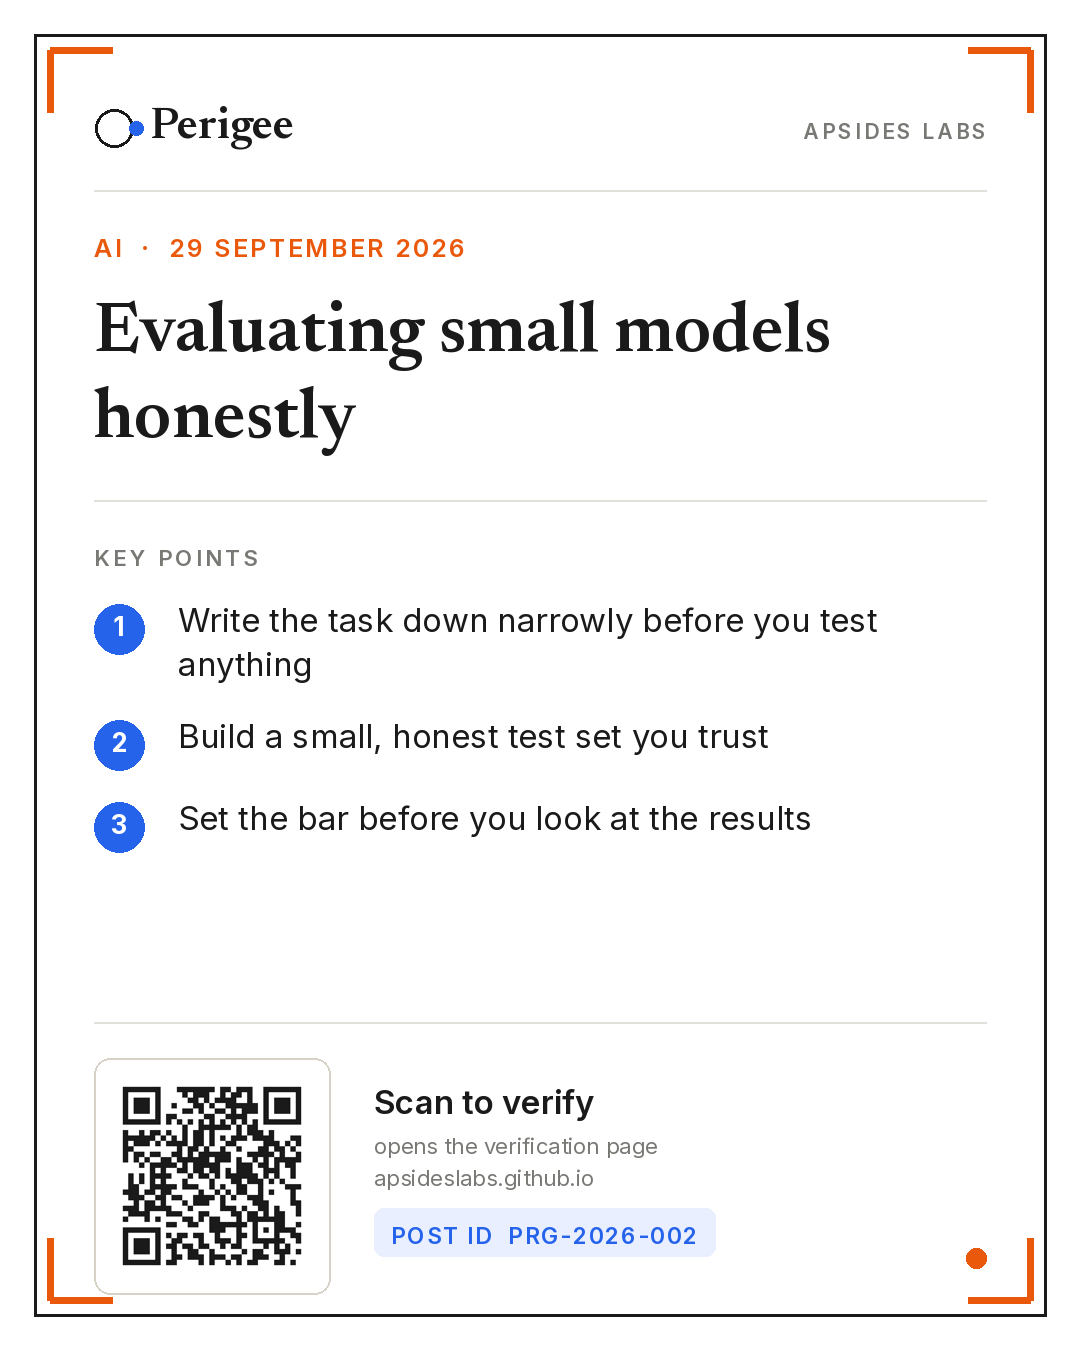
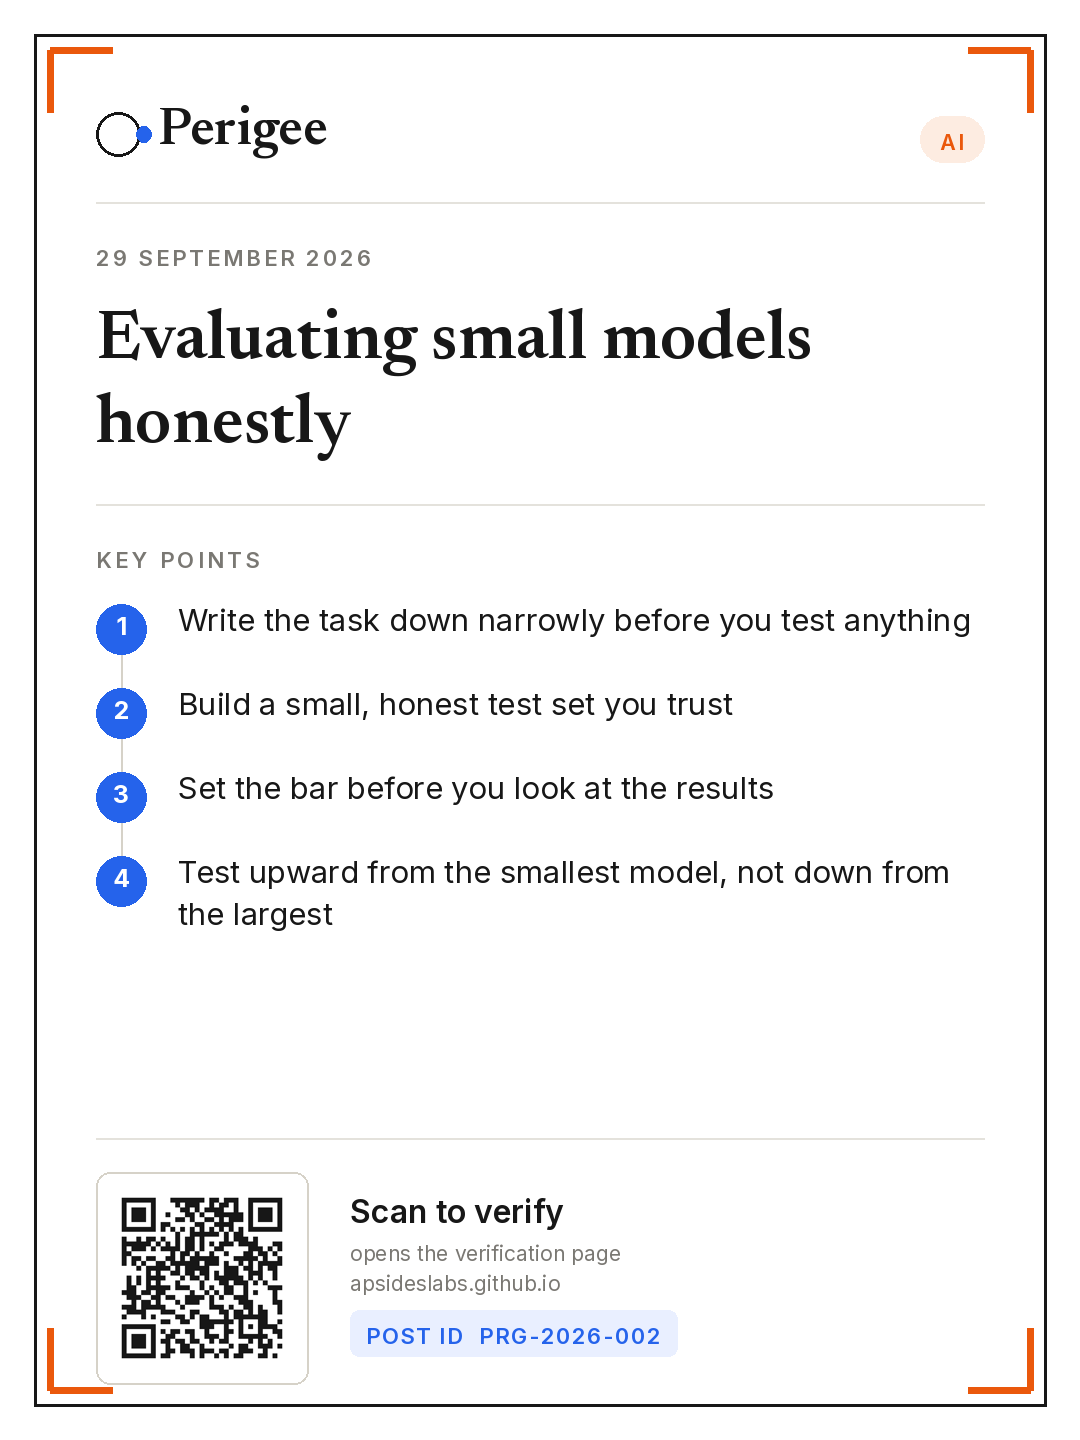
Redesign share cards: drop company wordmark, add category pill, rail-connected key points, 4 points per card

diff --git a/posts/dictionary-for-an-ignored-language.html b/posts/dictionary-for-an-ignored-language.html
@@ -125,7 +125,7 @@
       <div class="share-body">
         <a class="share-card" href="../assets/share/dictionary-for-an-ignored-language.png" download="perigee-dictionary-for-an-ignored-language.png"
            aria-label="Download the shareable card for this post">
-          <img src="../assets/share/dictionary-for-an-ignored-language.png?v=2" width="1080" height="1350"
+          <img src="../assets/share/dictionary-for-an-ignored-language.png?v=3" width="1080" height="1440"
                alt="Shareable card: Building a dictionary for a language the web ignores &mdash; Perigee" loading="lazy">
         </a>
         <div class="share-side">

diff --git a/posts/capable-ai-on-constrained-hosts.html b/posts/capable-ai-on-constrained-hosts.html
@@ -143,7 +143,7 @@
       <div class="share-body">
         <a class="share-card" href="../assets/share/capable-ai-on-constrained-hosts.png" download="perigee-capable-ai-on-constrained-hosts.png"
            aria-label="Download the shareable card for this post">
-          <img src="../assets/share/capable-ai-on-constrained-hosts.png?v=2" width="1080" height="1350"
+          <img src="../assets/share/capable-ai-on-constrained-hosts.png?v=3" width="1080" height="1440"
                alt="Shareable card: Capable AI on CPU-only, constrained hosts &mdash; Perigee" loading="lazy">
         </a>
         <div class="share-side">

diff --git a/posts/static-sites-outlive-frameworks.html b/posts/static-sites-outlive-frameworks.html
@@ -123,7 +123,7 @@
       <div class="share-body">
         <a class="share-card" href="../assets/share/static-sites-outlive-frameworks.png" download="perigee-static-sites-outlive-frameworks.png"
            aria-label="Download the shareable card for this post">
-          <img src="../assets/share/static-sites-outlive-frameworks.png?v=2" width="1080" height="1350"
+          <img src="../assets/share/static-sites-outlive-frameworks.png?v=3" width="1080" height="1440"
                alt="Shareable card: Static sites outlive their frameworks &mdash; Perigee" loading="lazy">
         </a>
         <div class="share-side">

diff --git a/posts/agents-outside-the-lines.html b/posts/agents-outside-the-lines.html
@@ -168,7 +168,7 @@
       <div class="share-body">
         <a class="share-card" href="../assets/share/agents-outside-the-lines.png" download="perigee-agents-outside-the-lines.png"
            aria-label="Download the shareable card for this post">
-          <img src="../assets/share/agents-outside-the-lines.png?v=2" width="1080" height="1350"
+          <img src="../assets/share/agents-outside-the-lines.png?v=3" width="1080" height="1440"
                alt="Shareable card: When AI agents don&#x27;t stay in their lane &mdash; Perigee" loading="lazy">
         </a>
         <div class="share-side">

diff --git a/posts/cpu-only-ai-default.html b/posts/cpu-only-ai-default.html
@@ -126,7 +126,7 @@
       <div class="share-body">
         <a class="share-card" href="../assets/share/cpu-only-ai-default.png" download="perigee-cpu-only-ai-default.png"
            aria-label="Download the shareable card for this post">
-          <img src="../assets/share/cpu-only-ai-default.png?v=2" width="1080" height="1350"
+          <img src="../assets/share/cpu-only-ai-default.png?v=3" width="1080" height="1440"
                alt="Shareable card: Why CPU-only AI is the right default for learning software &mdash; Perigee" loading="lazy">
         </a>
         <div class="share-side">

diff --git a/posts/offline-first-learning.html b/posts/offline-first-learning.html
@@ -143,7 +143,7 @@
       <div class="share-body">
         <a class="share-card" href="../assets/share/offline-first-learning.png" download="perigee-offline-first-learning.png"
            aria-label="Download the shareable card for this post">
-          <img src="../assets/share/offline-first-learning.png?v=2" width="1080" height="1350"
+          <img src="../assets/share/offline-first-learning.png?v=3" width="1080" height="1440"
                alt="Shareable card: Why offline-first learning still matters &mdash; Perigee" loading="lazy">
         </a>
         <div class="share-side">

diff --git a/posts/evaluating-small-models.html b/posts/evaluating-small-models.html
@@ -128,7 +128,7 @@
       <div class="share-body">
         <a class="share-card" href="../assets/share/evaluating-small-models.png" download="perigee-evaluating-small-models.png"
            aria-label="Download the shareable card for this post">
-          <img src="../assets/share/evaluating-small-models.png?v=2" width="1080" height="1350"
+          <img src="../assets/share/evaluating-small-models.png?v=3" width="1080" height="1440"
                alt="Shareable card: Evaluating small models honestly &mdash; Perigee" loading="lazy">
         </a>
         <div class="share-side">

diff --git a/posts/teaching-a-script.html b/posts/teaching-a-script.html
@@ -123,7 +123,7 @@
       <div class="share-body">
         <a class="share-card" href="../assets/share/teaching-a-script.png" download="perigee-teaching-a-script.png"
            aria-label="Download the shareable card for this post">
-          <img src="../assets/share/teaching-a-script.png?v=2" width="1080" height="1350"
+          <img src="../assets/share/teaching-a-script.png?v=3" width="1080" height="1440"
                alt="Shareable card: Teaching a script, not just a language &mdash; Perigee" loading="lazy">
         </a>
         <div class="share-side">

diff --git a/posts/agents-at-work.html b/posts/agents-at-work.html
@@ -143,7 +143,7 @@
       <div class="share-body">
         <a class="share-card" href="../assets/share/agents-at-work.png" download="perigee-agents-at-work.png"
            aria-label="Download the shareable card for this post">
-          <img src="../assets/share/agents-at-work.png?v=2" width="1080" height="1350"
+          <img src="../assets/share/agents-at-work.png?v=3" width="1080" height="1440"
                alt="Shareable card: The week AI agents became coworkers &mdash; Perigee" loading="lazy">
         </a>
         <div class="share-side">
